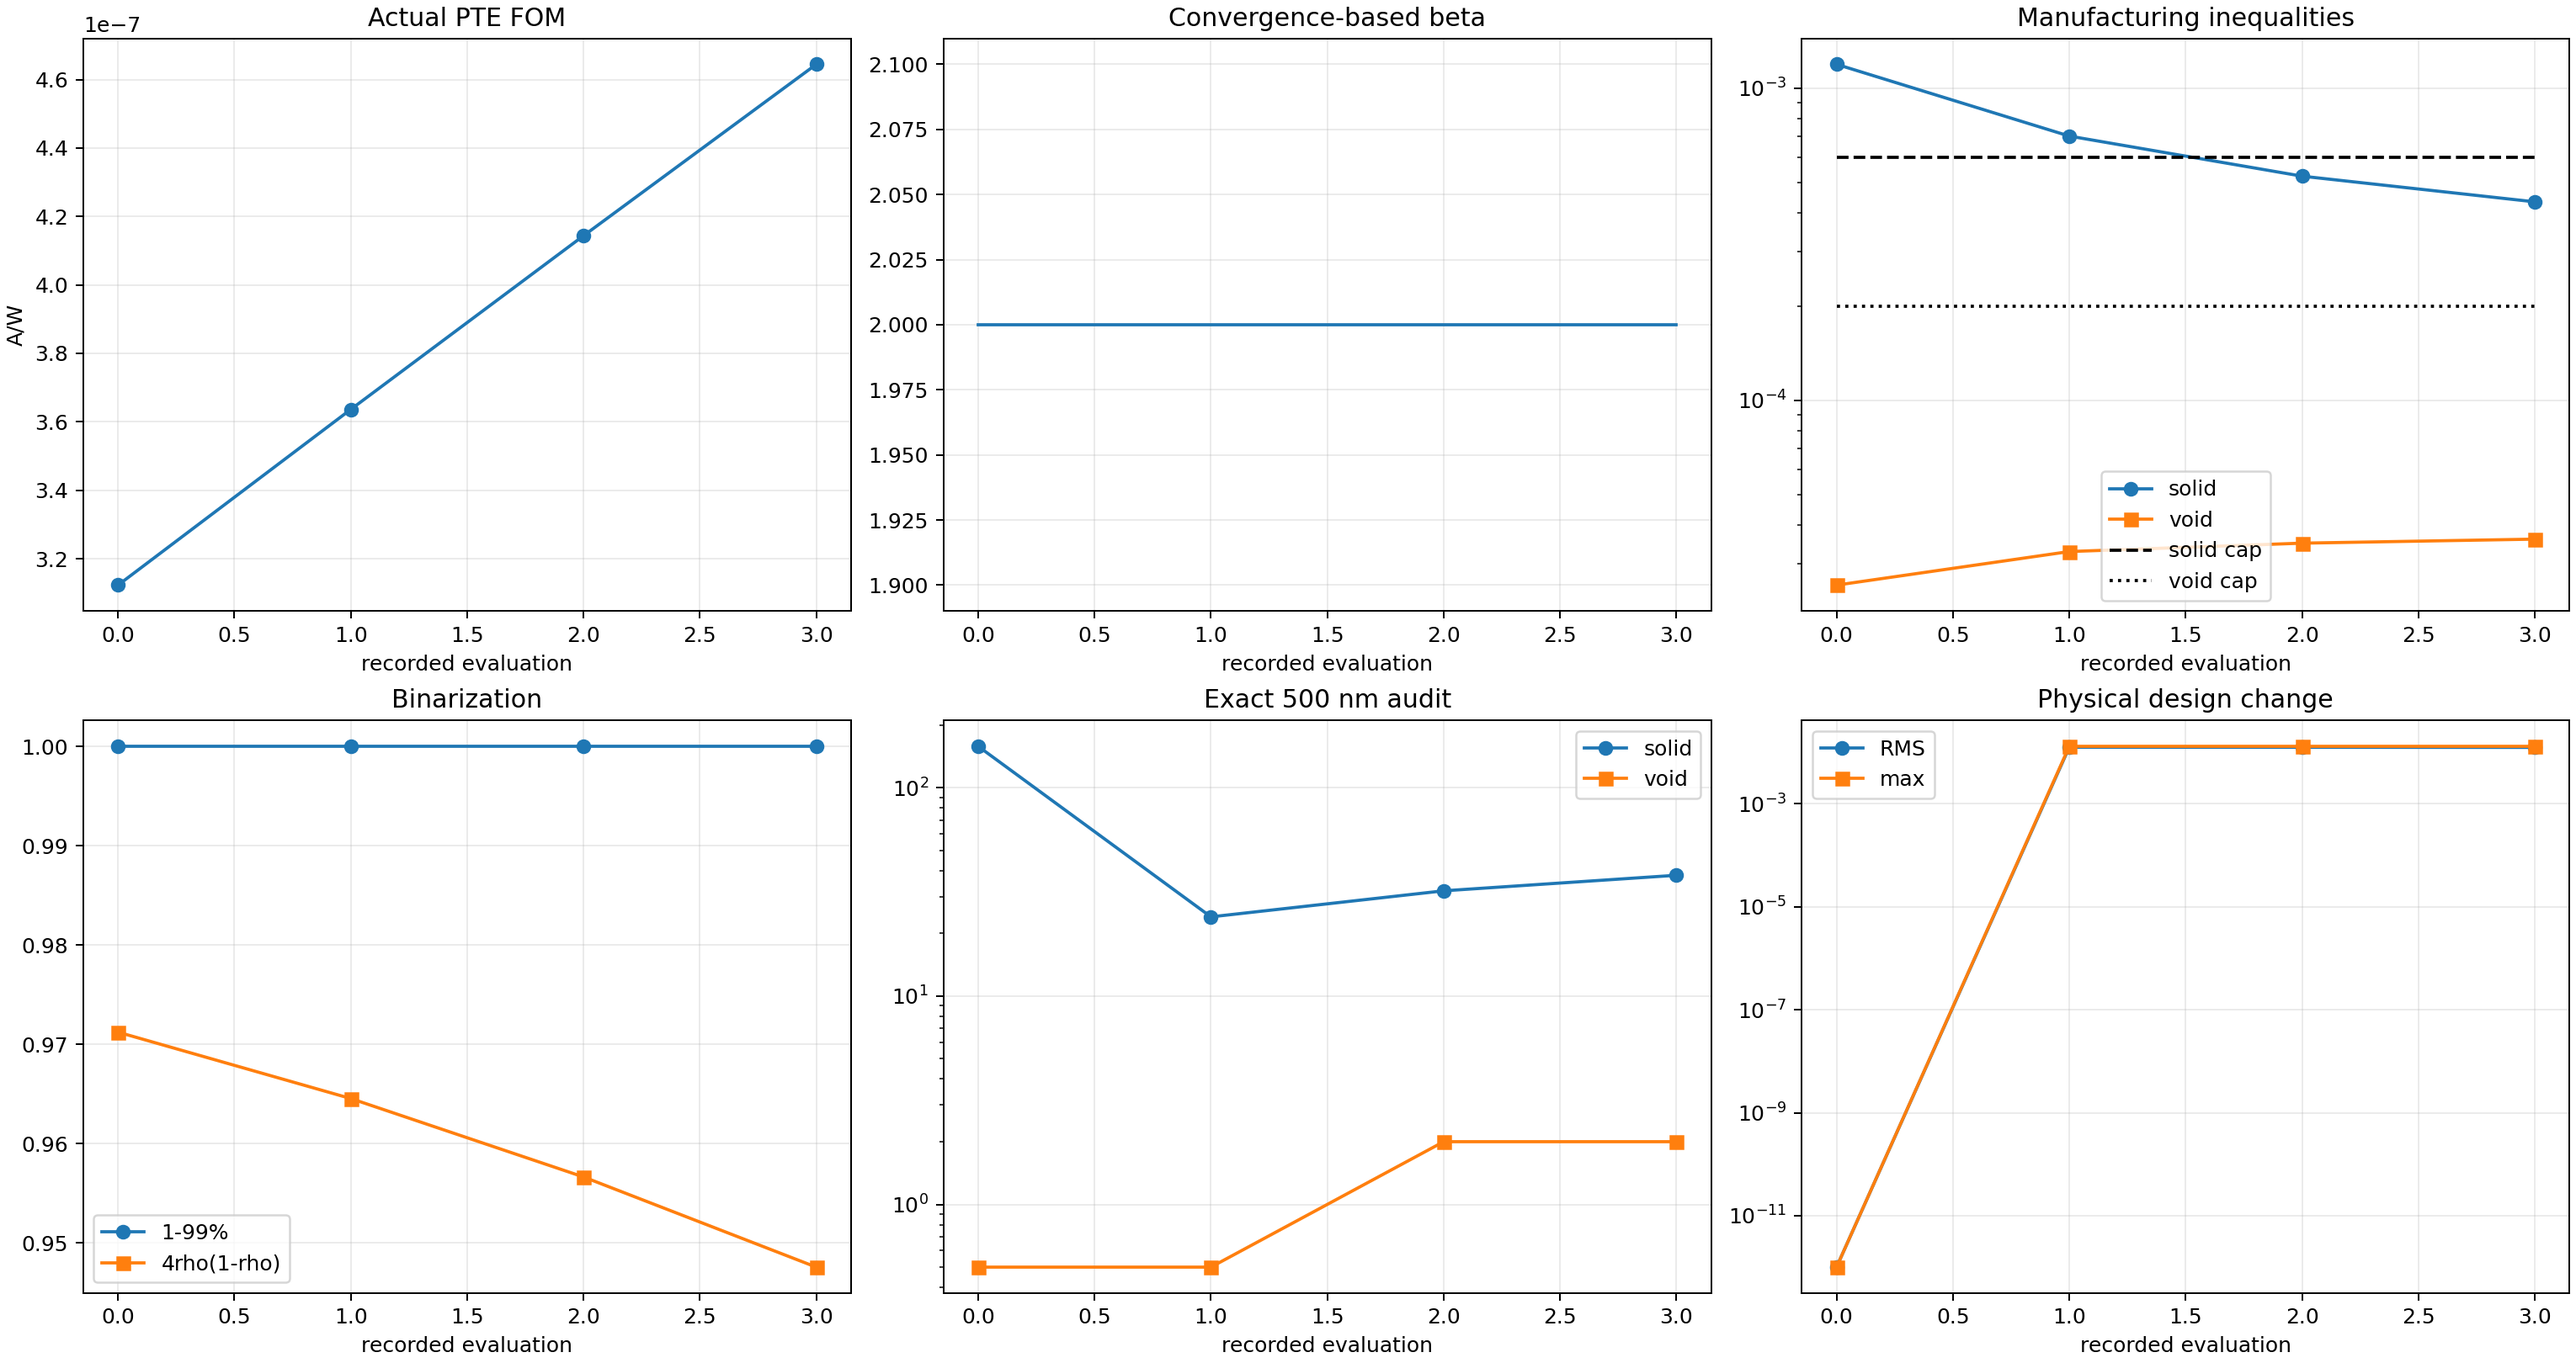
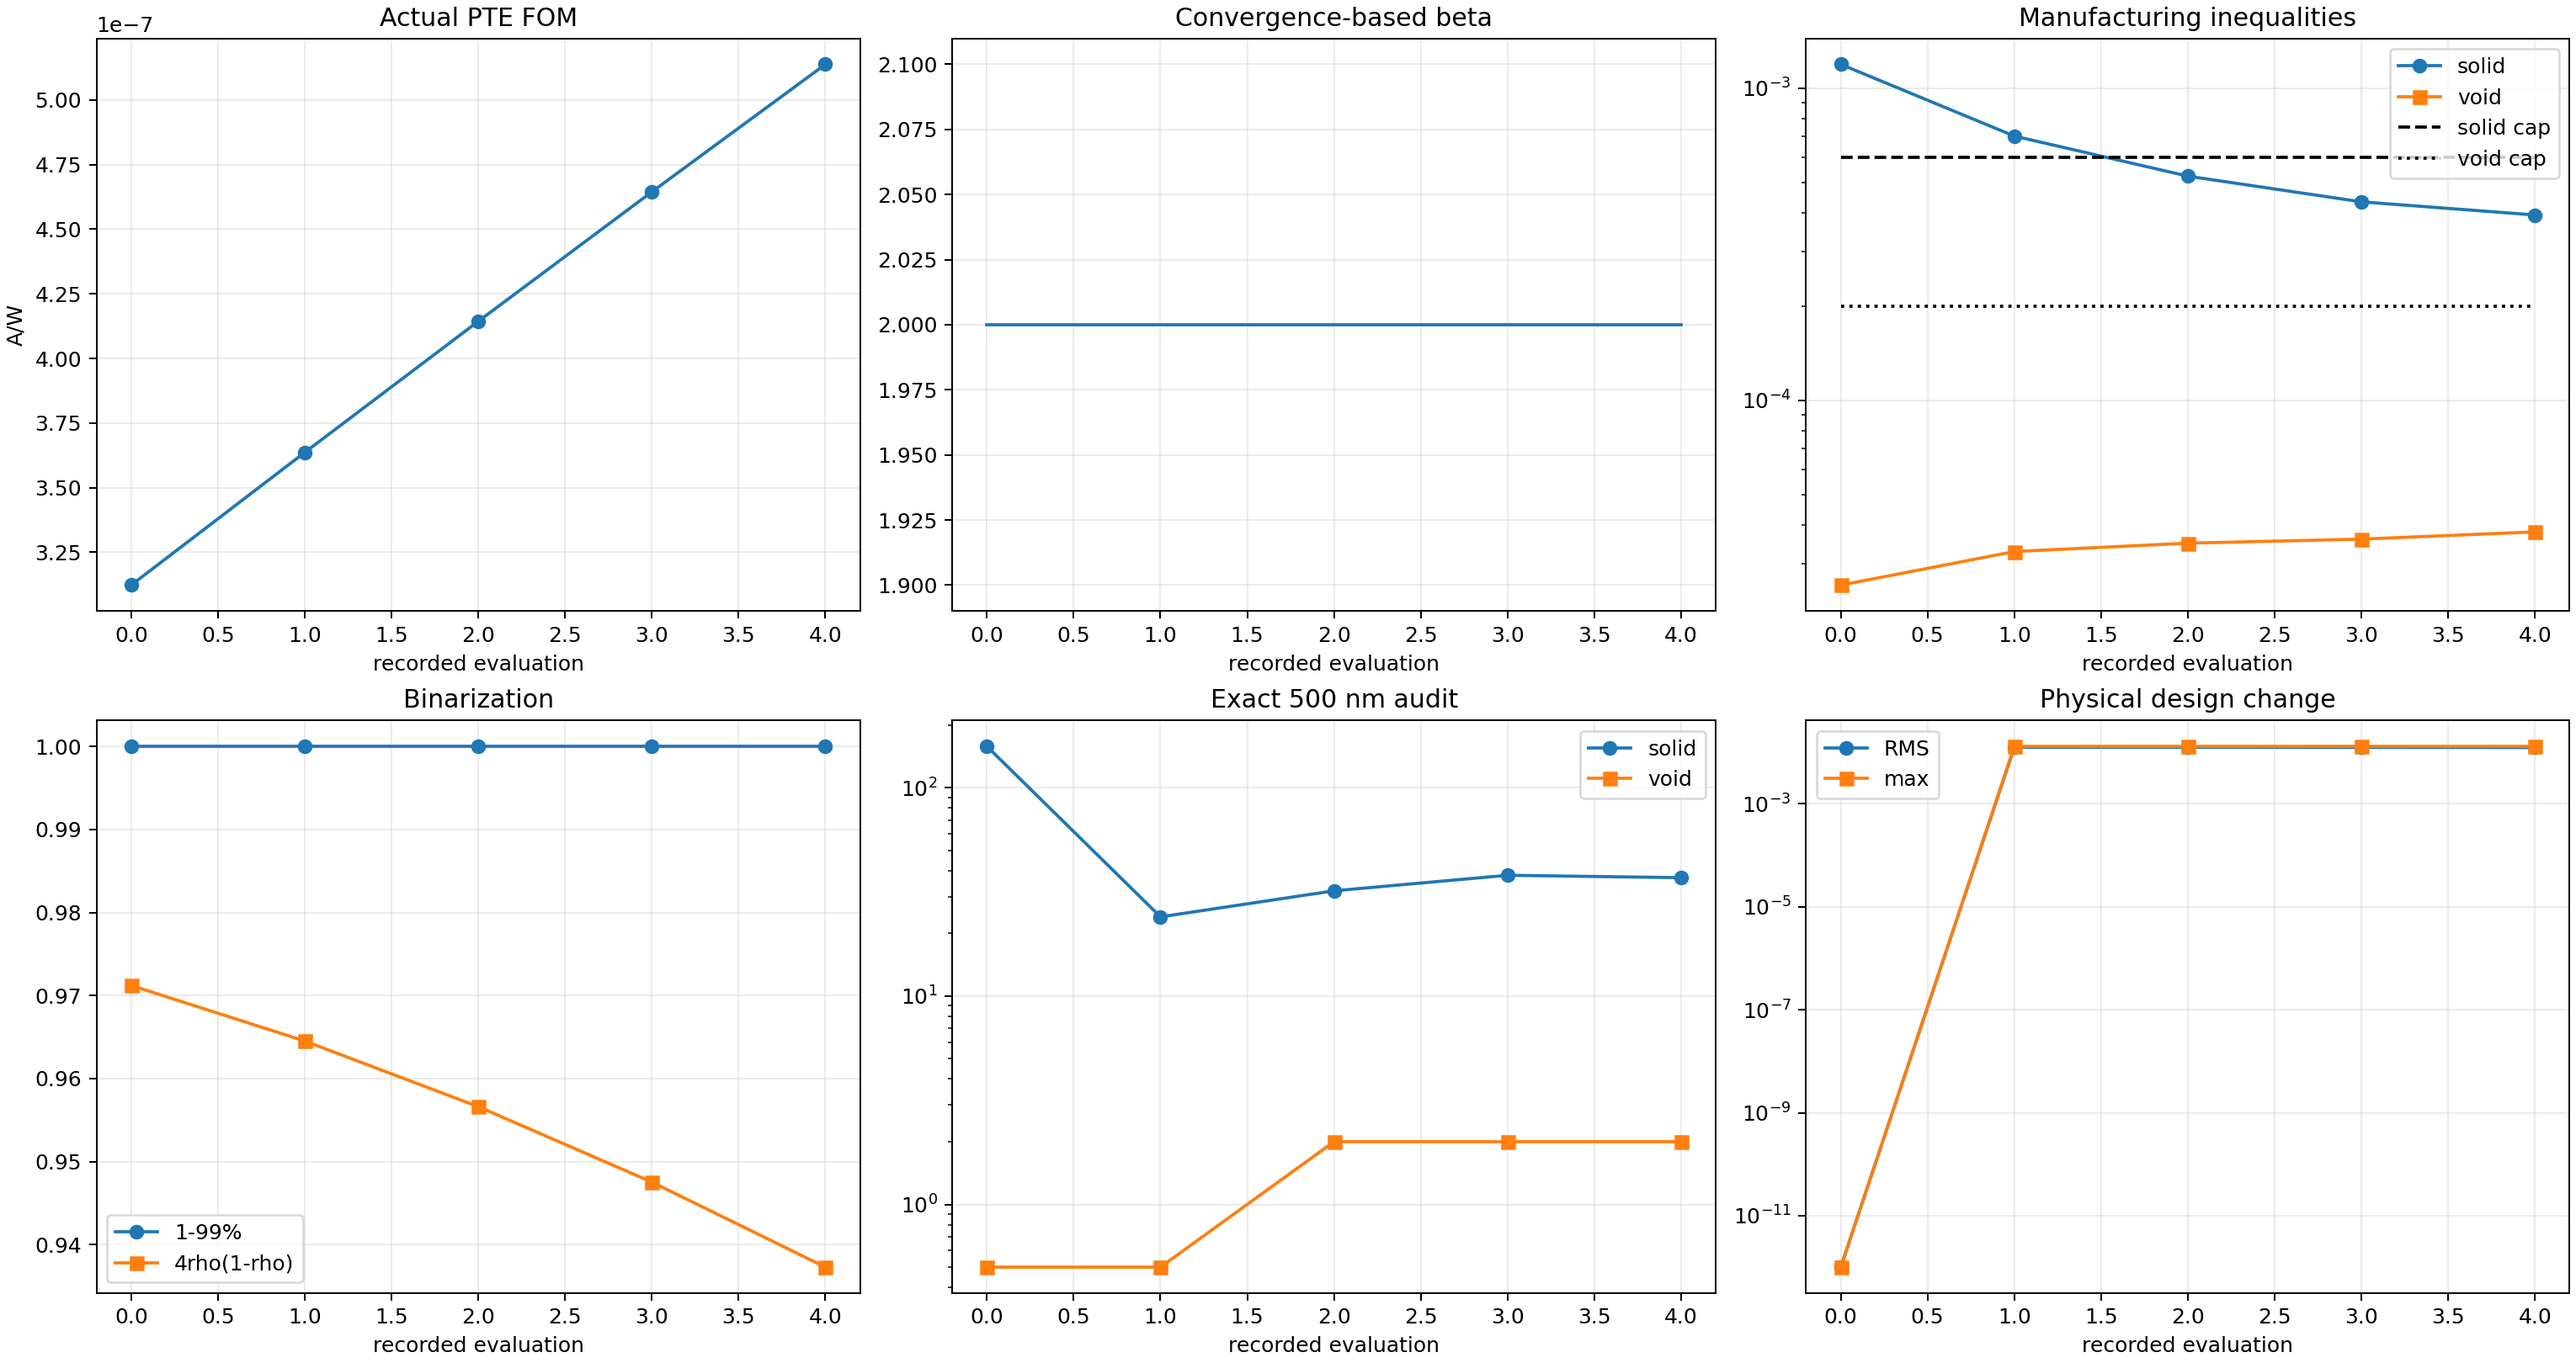
Record Run 005 run006_Ea_b002_s004_g004_accepted_mma

diff --git a/photothermal_pte/optimization_runs/run_006_corrected_Ea_pte_magnitude_max/results/OPTIMIZATION_REPORT.md b/photothermal_pte/optimization_runs/run_006_corrected_Ea_pte_magnitude_max/results/OPTIMIZATION_REPORT.md
@@ -2,12 +2,12 @@
 
 Status: `RUNNING_CORRECTED_EA_PTE_MAGNITUDE_OPTIMIZATION`
 
-Current stage: beta=2, accepted stage iteration=3, global iteration=3.
+Current stage: beta=2, accepted stage iteration=4, global iteration=4.
 
 Constraint contract: `soft_disk_opening_500nm_from_iteration_zero_v5`.
 
-Actual FOM: `4.644457250453e-07 A/W`. Fixed-cap solid/void constraints: `4.325781e-04` / `3.597907e-05` with caps `6.000000e-04` / `2.000000e-04`.
+Actual FOM: `5.138006614631e-07 A/W`. Fixed-cap solid/void constraints: `3.926207e-04` / `3.795682e-05` with caps `6.000000e-04` / `2.000000e-04`.
 
-Exact 500 nm bad cells: solid `38`, void `2`. Stage convergence: `False` (need at least 8 accepted updates).
+Exact 500 nm bad cells: solid `37`, void `2`. Stage convergence: `False` (need at least 8 accepted updates).
 
 Beta advances only after the stage FOM/density plateau. The run is not complete until the projected-binary and exact 500 nm gates pass and a fresh thresholded-binary GPU/CUDA evaluation succeeds.
